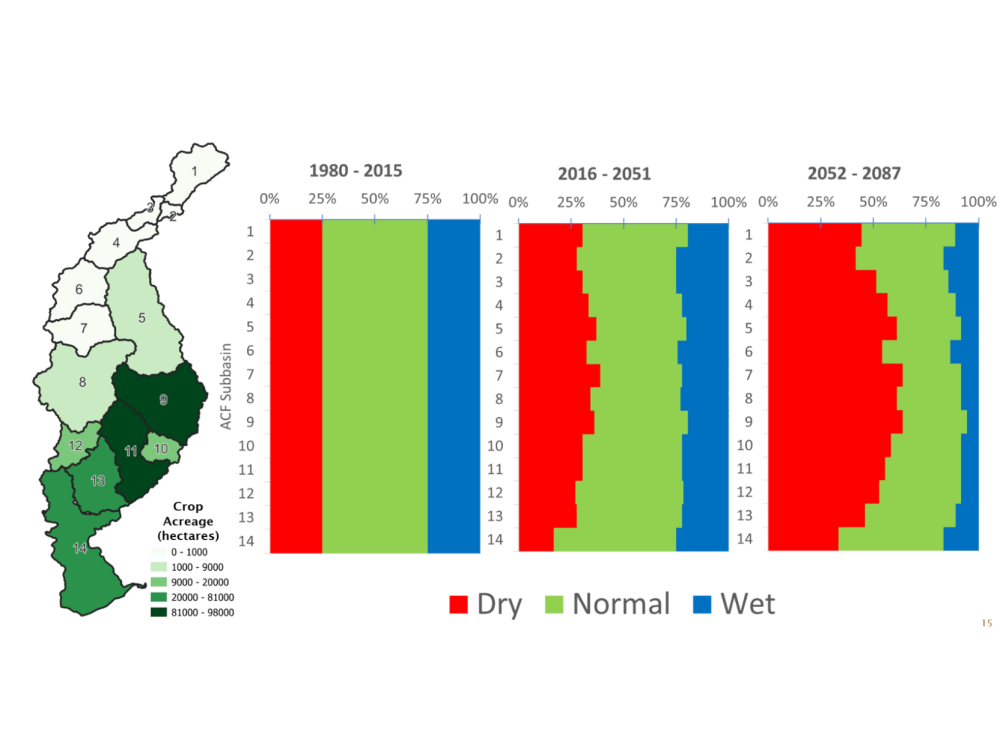
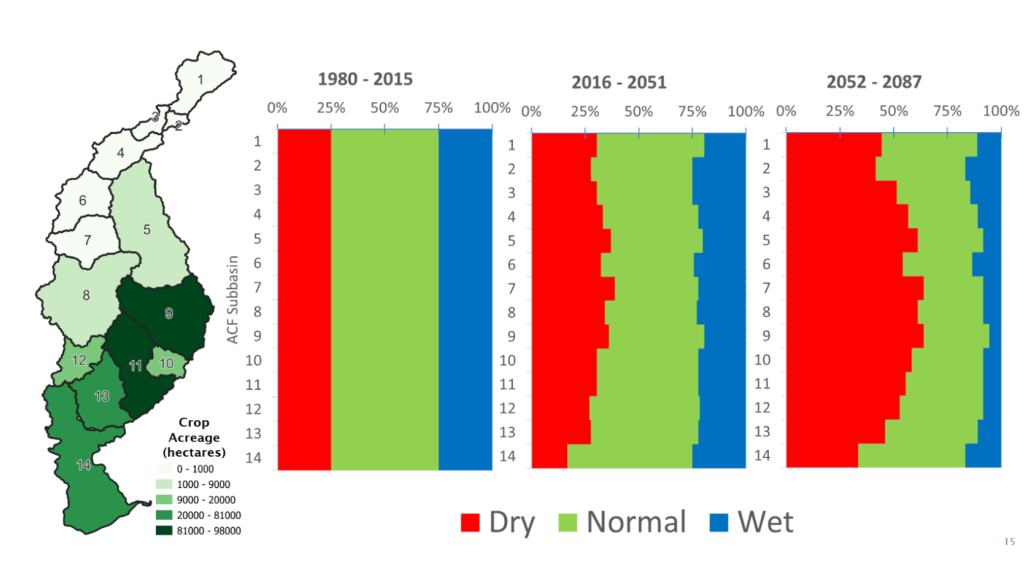
projects refine images including 16:9 aspect ratio

diff --git a/assets/projects/project-acf-crop-yield/project-acf-crop-yield.html b/assets/projects/project-acf-crop-yield/project-acf-crop-yield.html
@@ -127,7 +127,7 @@
                 <!-- Large hero screenshot -->
                 <div class="project-hero-image">
                     <!-- Replace the src with your actual screenshot path (1000x750 4:3 image) -->
-                    <img src="project-acf-crop-yield-thumb.png"
+                    <img src="project-acf-crop-yield-16x9.png"
                         alt="Climate-informed crop yield and irrigation projections for the ACF River Basin" />
                 </div>
 

diff --git a/assets/projects/project-hydrology-literature-genai/project-hydrology-literature-genai.html b/assets/projects/project-hydrology-literature-genai/project-hydrology-literature-genai.html
@@ -218,7 +218,7 @@
             <section id="modeling" class="section">
 
                 <div class="project-figure">
-                    <img src="project-hydrology-literature-genai-thumb.png"
+                    <img src="project-hydrology-literature-genai-16x9.png"
                         alt="Hydrology Literature GenAI System Architecture" />
                 </div>
 
